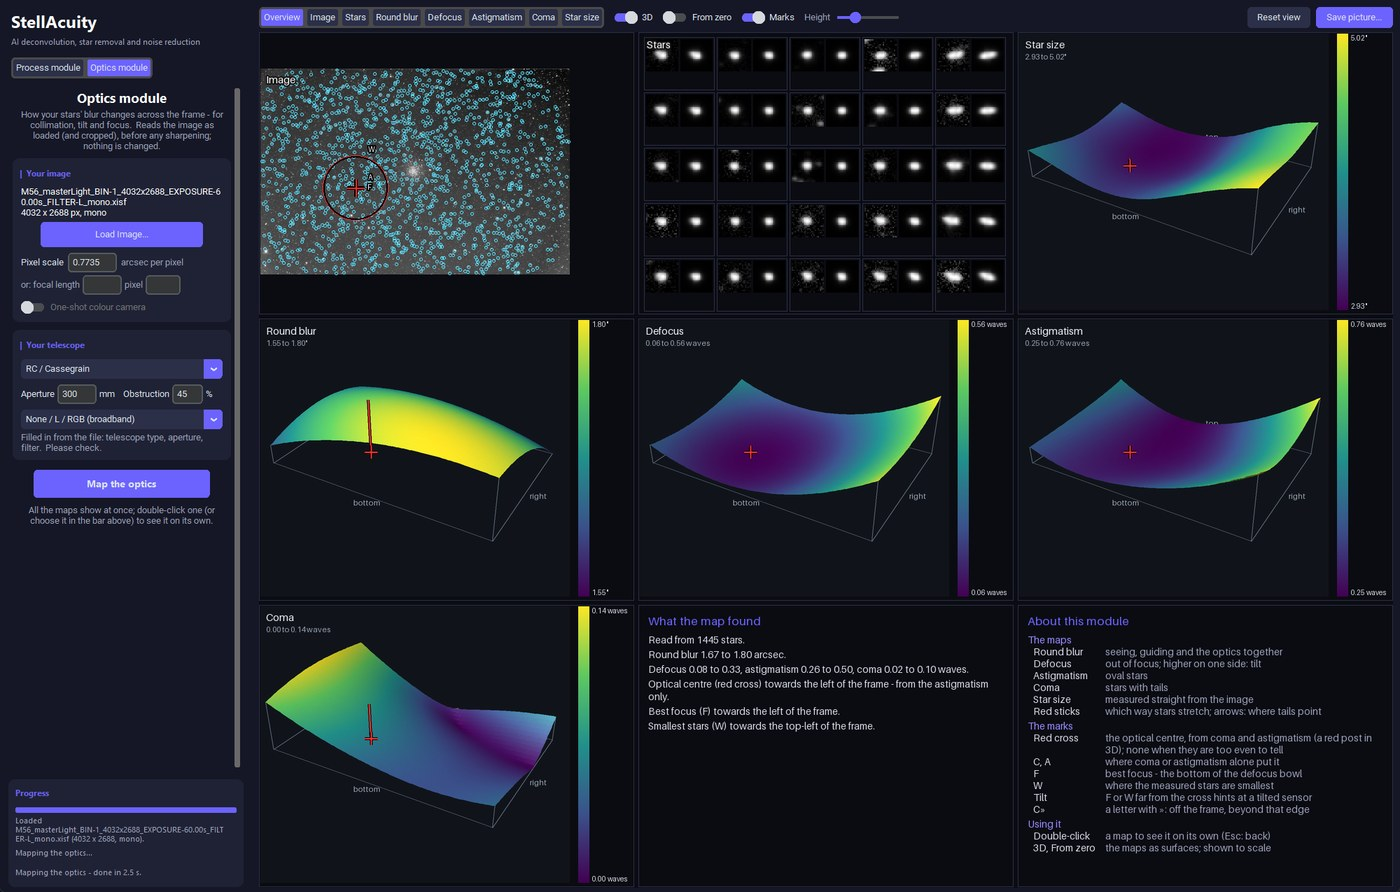
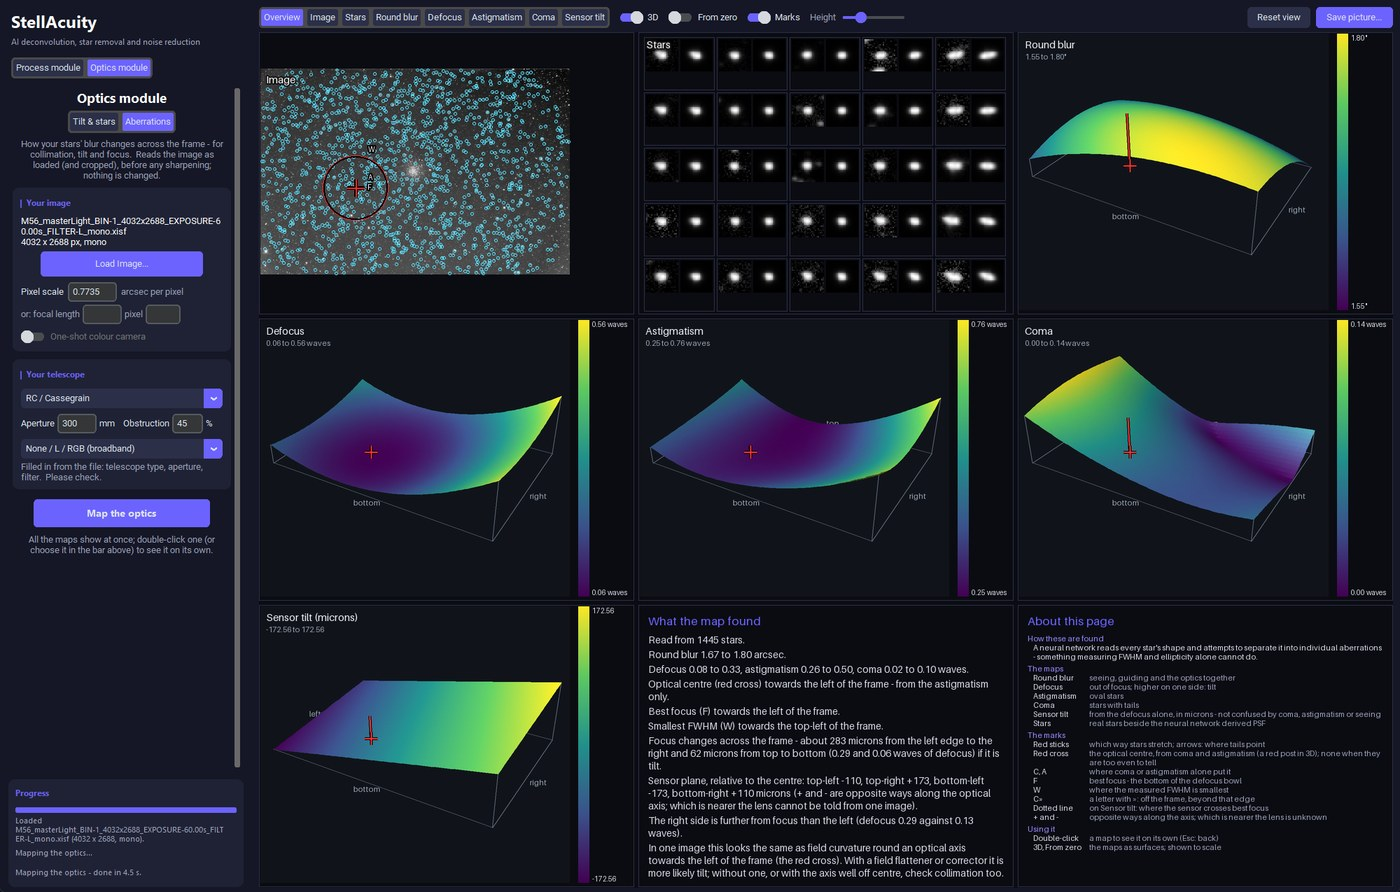
StellAcuity 1.2.0: the Optics module's two pages - Tilt & stars and Aberrations

diff --git a/index.html b/index.html
@@ -7,7 +7,7 @@
 <meta name="description" content="StellAcuity: AI sharpening (deconvolution), star removal and noise reduction for astronomical images. Windows, mono and colour, FITS / XISF / TIFF / JPEG / PNG. 7-day free trial (3 saved results).">
 <!--
   Published at https://stellacuity.com (29 Oct 2026):
-    (download: GitHub Release v1.1.1 - Stellacuity-1.1.1-Windows.zip)
+    (download: GitHub Release v1.2.0 - Stellacuity-1.2.0-Windows.zip)
   (checkout link filled in: Polar)
   (contact address filled in: support@stellacuity.com - forwarded to Gmail by Cloudflare Email Routing)
   (site served at stellacuity.com: the CNAME file)
@@ -166,22 +166,22 @@
       <figure><img class="hero-shot" src="images/program_process.jpg?v=1.1" fetchpriority="high" width="1600" height="1019"
                    alt="StellAcuity's Process mode: the six steps beside a colour nebula image">
         <figcaption><b>Process module</b> - sharpen, remove stars, reduce noise</figcaption></figure>
-      <figure><img class="hero-shot" src="images/program_optics.jpg?v=1.3" fetchpriority="high" width="1400" height="892"
-                   data-turning="images/program_optics_turning.webp?v=1.1"
+      <figure><img class="hero-shot" src="images/program_optics.jpg?v=1.4" fetchpriority="high" width="1400" height="892"
+                   data-turning="images/program_optics_turning.webp?v=1.2"
                    alt="StellAcuity's Optics module: every map of a star cluster's optics at once, in 3D, turning">
         <figcaption><b>Optics module</b> - your optics, mapped</figcaption></figure>
     </div>
     <p class="tag">AI sharpening (deconvolution), star removal and noise reduction for your astronomical images. Tighter, rounder stars,
       starless nebulae and galaxies, and cleaner backgrounds - measured from your image's own stars, with nothing else to enter.
       Made for the early, linear stage of processing, it slots into the workflow you already have: stretch, colour and finish
-      your image as you always do.  New in 1.1: the <a href="#optics" style="color:var(--accent2)">Optics module</a> shows how your
-      stars' blur changes across the frame - collimation, tilt and focus at a glance.</p>
+      your image as you always do.  New in 1.2: the <a href="#optics" style="color:var(--accent2)">Optics module</a> has two pages -
+      Tilt &amp; stars, the traditional check from your stars' FWHM and shape, and Aberrations, where a neural network goes further.</p>
     <div class="buttons">
       <a class="btn primary" href="#download">Try it free for 7 days</a>
       <a class="btn ghost" href="#buy">Buy - &pound;15</a>
     </div>
     <p class="small">Introductory price of &pound;15, including all future releases of deconvolution, star removal, noise reduction and the Optics module.</p>
-    <p class="small">Version 1.1.1 &middot; Windows 10 / 11 &middot; FITS, XISF, TIFF, JPEG and PNG &middot; mono and colour</p>
+    <p class="small">Version 1.2.0 &middot; Windows 10 / 11 &middot; FITS, XISF, TIFF, JPEG and PNG &middot; mono and colour</p>
   </div>
 </div>
 
@@ -315,33 +315,34 @@
 <section id="optics" class="panel">
   <div class="wrap">
     <h2>Optics module</h2>
-    <p class="lead">New in 1.1: see how your stars' blur changes across the frame - for collimation, tilt and focus. The Optics module
-      reads the blur from your stars and separates it into its parts - <b>round blur</b> (seeing, guiding and optics), <b>defocus</b>,
-      <b>astigmatism</b> and <b>coma</b> - and shows each one on its own map across the frame, either as a colour plot or as a
-      3D surface you can turn, together with the stars' measured size and real stars beside the model's. It also estimates
-      where the <b>optical centre</b> lies - the point the aberrations grow away from, often not the middle of the frame - and
-      can mark it on every plot. Load a linear image,
-      tell StellAcuity about your telescope, and press <b>Map the optics</b>: a few seconds later every map is on screen at once.
-      Nothing in your image is changed.</p>
+    <p class="lead">See how your stars change across the frame - for tilt, focus and collimation. Load a linear image, tell
+      StellAcuity about your telescope and press <b>Map the optics</b>: a few seconds later every map is on screen at once, as
+      colour plots or as 3D surfaces you can turn. Nothing in your image is changed. The module has two pages:
+      <b>Tilt &amp; stars</b>, the traditional check measured from the stars themselves, and <b>Aberrations</b>, where a neural
+      network goes further.</p>
     <div class="hero-shots wide">
-      <figure><img class="shot" src="images/optics_window_2d.jpg?v=1.3" loading="lazy" width="1600" height="870"
-                   alt="The Optics module: every map of a star cluster at once as colour plots, with the optical centre marked">
-        <figcaption><b>Colour plots</b> - every map at once</figcaption></figure>
-      <figure><img class="shot" src="images/optics_window_3d.jpg?v=1.3" loading="lazy" width="1600" height="870"
-                   alt="The Optics module: the same maps as 3D surfaces">
-        <figcaption><b>3D surfaces</b> - the same maps, to turn and tilt</figcaption></figure>
+      <figure><img class="shot" src="images/optics_tilt_stars.jpg?v=1.0" loading="lazy" width="1600" height="870"
+                   alt="The Optics module's Tilt and stars page: corner stars, corner FWHM, FWHM, ellipticity and tilt maps in 3D, and FWHM by distance">
+        <figcaption><b>Tilt &amp; stars</b> - the traditional check, from the stars' FWHM and shape</figcaption></figure>
+      <figure><img class="shot" src="images/optics_aberrations.jpg?v=1.0" loading="lazy" width="1600" height="870"
+                   alt="The Optics module's Aberrations page: round blur, defocus, astigmatism, coma and sensor tilt as 3D surfaces">
+        <figcaption><b>Aberrations</b> - a neural network separates the blur into its parts</figcaption></figure>
     </div>
     <p class="caption">M56 with a 12" RC: the stars grow and stretch towards the right-hand edge, and the optical centre lies left of the middle.</p>
     <div class="grid" style="margin-top:34px">
-      <div class="card"><div class="icon">&#9638;</div><h3>Every map at once</h3>
-        <p>Round blur, defocus, astigmatism, coma and the stars' size across the frame, real stars beside the stars the map predicts,
-          and where the optical centre is. Double-click any map to see it on its own.</p></div>
-      <div class="card"><div class="icon">&#9651;</div><h3>Turn it in 3D</h3>
-        <p>Any map as a surface you can turn, tilt and zoom - a slope, a saddle or one high corner shows at a glance. Save any view
-          as a picture to share.</p></div>
+      <div class="card"><div class="icon">&#9638;</div><h3>Tilt &amp; stars</h3>
+        <p>The traditional check, measured directly from the geometry of your stars: a star from each corner side by side, each
+          corner's FWHM and the corner spread, FWHM and ellipticity across the frame, the tilt as a flat plane with its corners
+          in arcseconds, and FWHM by distance from the centre - to tell tilt from field curvature or back focus.</p></div>
+      <div class="card"><div class="icon">&#9651;</div><h3>Aberrations</h3>
+        <p>A neural network reads every star's shape and attempts to separate it into individual aberrations - <b>round blur</b>
+          (seeing, guiding and optics), <b>defocus</b>, <b>astigmatism</b> and <b>coma</b> - something measuring FWHM and
+          ellipticity alone cannot do. It shows the sensor's tilt in microns, from the defocus alone, and estimates where the
+          <b>optical centre</b> lies.</p></div>
       <div class="card"><div class="icon">&#9737;</div><h3>Any telescope, any camera</h3>
         <p>Refractors and camera lenses, Newtonians, RC, SCT, EdgeHD, Maksutov, RASA and Hyperstar; mono or one-shot colour cameras;
-          broadband or narrowband filters. The telescope is read from your file where it says.</p></div>
+          broadband or narrowband filters. The telescope is read from your file where it says. Save any view as a picture to
+          share.</p></div>
     </div>
     <div class="hero-shots wide" style="margin-top:34px">
       <figure><img class="shot" src="images/optics_turning_astigmatism.webp?v=1.0" loading="lazy" width="1100" height="640"
@@ -374,8 +375,10 @@
       <div class="card"><div class="icon">&#9681;</div><h3>Reduce noise</h3>
         <p>AI noise reduction that leaves stars and faint detail alone - including on a bright sky or nebula background.</p></div>
       <div class="card"><div class="icon">&#9638;</div><h3>Optics module</h3>
-        <p>Maps of round blur, defocus, astigmatism and coma across the frame, in 2D or 3D, with the optical centre - for collimation,
-          tilt and focus. <a href="#optics" style="color:var(--accent2)">See it</a></p></div>
+        <p>For tilt, focus and collimation. <b>Tilt &amp; stars</b>: the traditional
+          check, measured from the stars' FWHM and shape. <b>Aberrations</b>: a neural network attempts to separate the blur into round blur,
+          defocus, astigmatism and coma, with the sensor tilt in microns and the optical centre.
+          <a href="#optics" style="color:var(--accent2)">See it</a></p></div>
       <div class="card"><div class="icon">&#9634;</div><h3>Crop</h3>
         <p>Cut away stacking edges or empty corners first - drag a rectangle, or let StellAcuity find the empty edges.</p></div>
       <div class="card"><div class="icon">&#9673;</div><h3>Mono and colour</h3>
@@ -419,7 +422,7 @@
       <h2 style="text-align:left">Download</h2>
       <p>Try StellAcuity free for 7 days on your own images - nothing to sign up for - and save up to 3 results. After
         that, a licence key unlocks it.</p>
-      <p><a class="btn primary" href="https://github.com/Stellacuity/stellacuity.github.io/releases/download/v1.1.1/Stellacuity-1.1.1-Windows.zip">Download StellAcuity 1.1.1 (Windows, 560 MB zip)</a></p>
+      <p><a class="btn primary" href="https://github.com/Stellacuity/stellacuity.github.io/releases/download/v1.2.0/Stellacuity-1.2.0-Windows.zip">Download StellAcuity 1.2.0 (Windows, 560 MB zip)</a></p>
       <p class="extract-note"><b>Important:</b> right-click the downloaded zip and choose <b>Extract All&hellip;</b> first, then run Stellacuity.exe from the extracted folder. Started from inside the zip, it cannot find its own files.</p>
       <p class="small" style="text-align:left">Windows 10 or 11 (64-bit). A graphics card makes it much faster; 8 GB of memory or more recommended.</p>
     </div>
